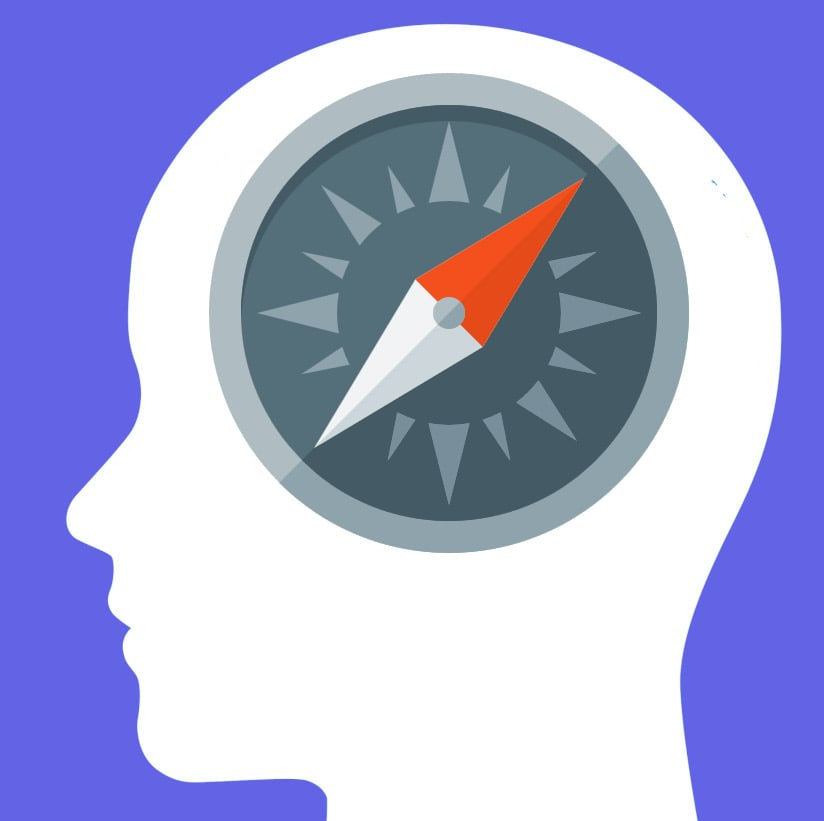
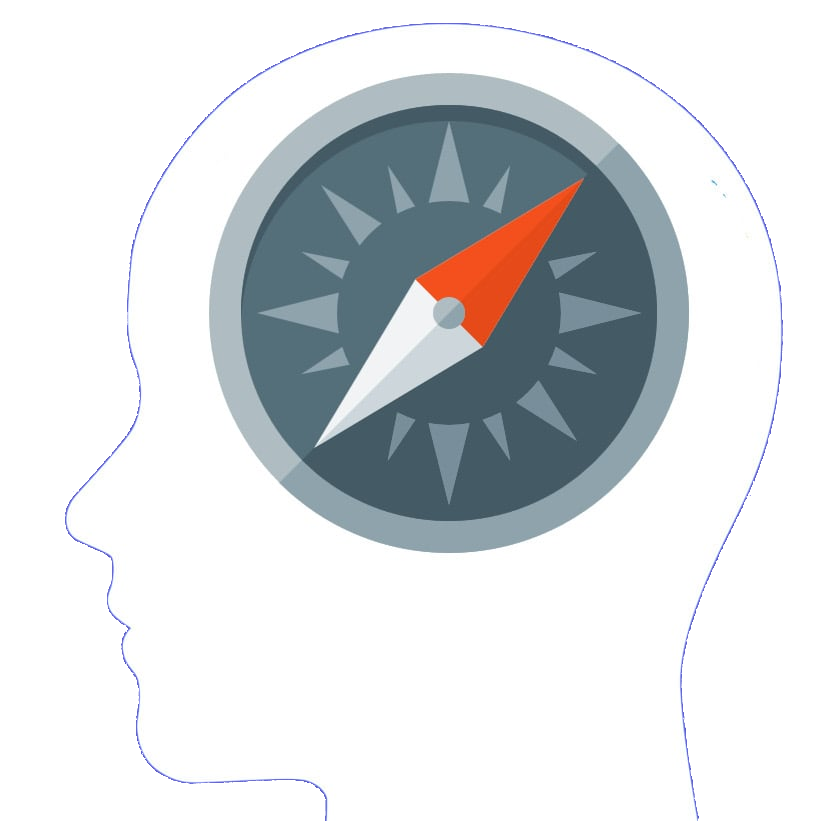
brain-coaching-hero

diff --git a/brain-coaching.html b/brain-coaching.html
@@ -94,8 +94,8 @@
     </header>
     <main>
         <div class="container-fluid" style="text-shadow: 1px 1px 5px black; font-weight: bold; color: white;">
-            <div class="row">
-              <div class="col-12 col-md-12 offset-lg-0 col-lg-12 assessment-hero-col">
+            <div class="row" style="background-color: #6363e5; background-image: url(./images/brain-coaching-hero.png); background-position: center; background-size: cover;">
+              <div class="col-12 col-md-12 offset-lg-0 col-lg-12 assessment-hero-col" style="background-color: transparent">
                 <div id="assessment-header-div">
                   <p id="assessment-header-hero">Find out what will help your brain function at its best using all-natural products! 
                   </p>            
